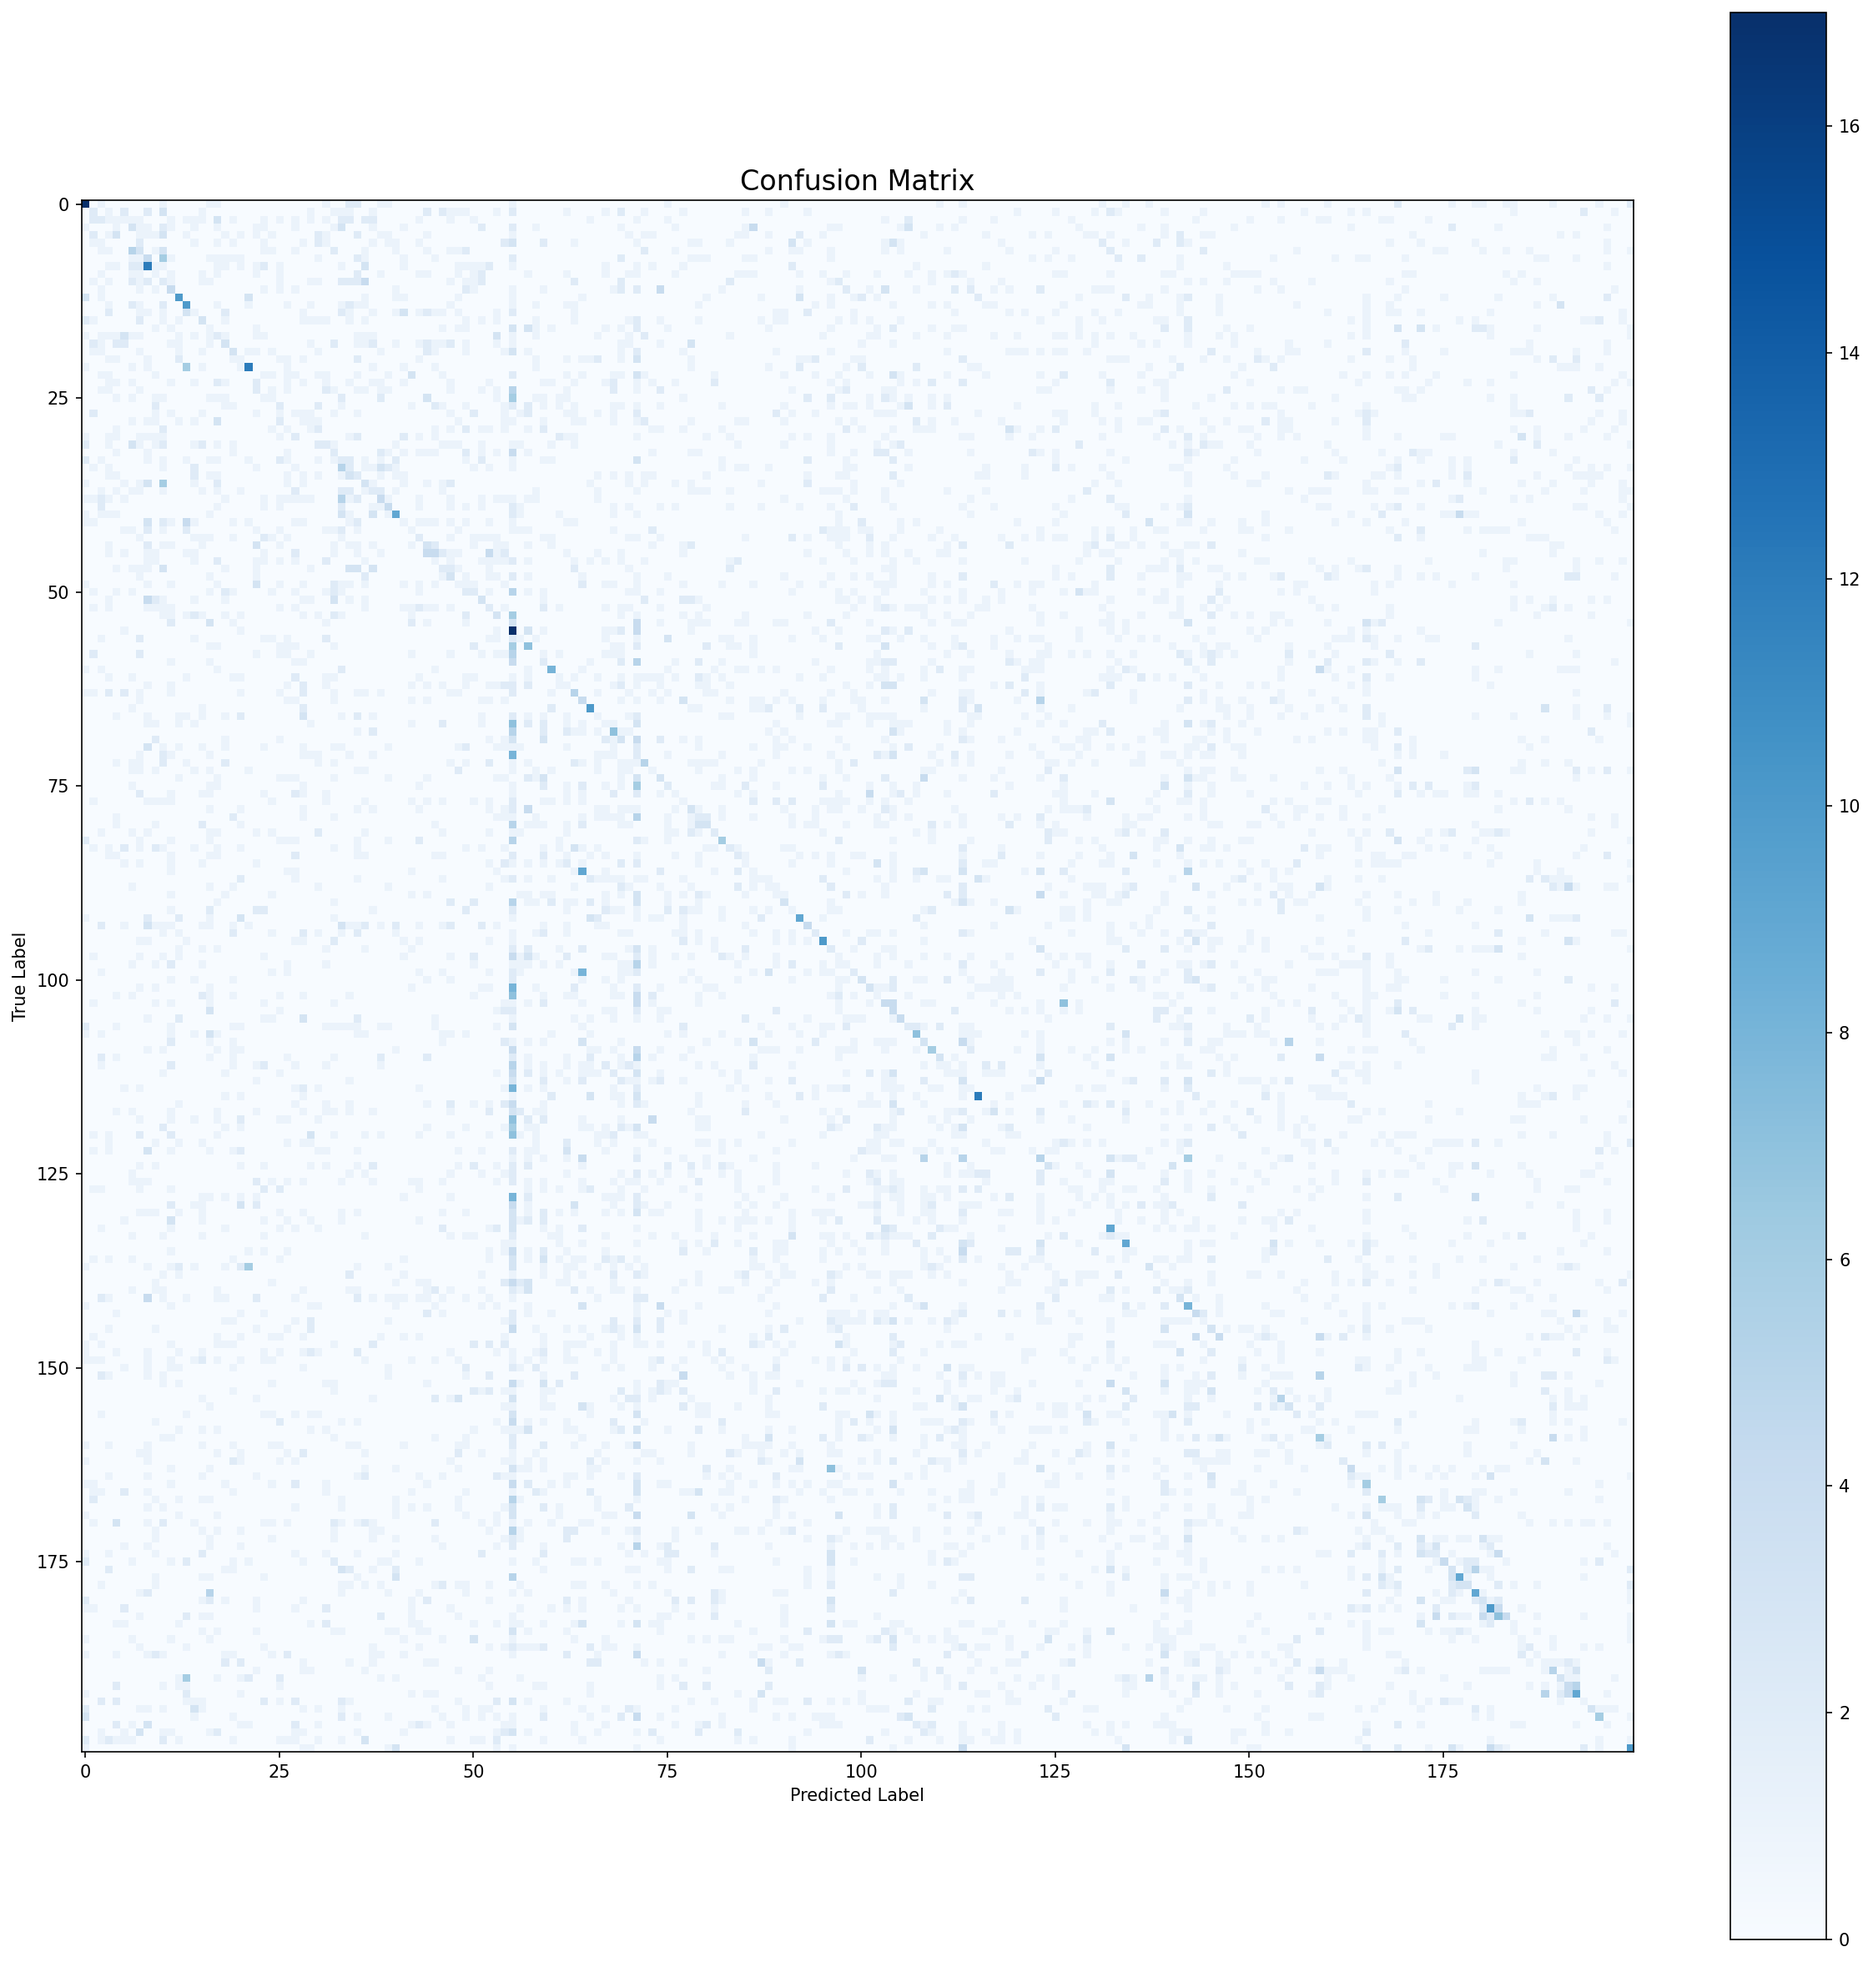
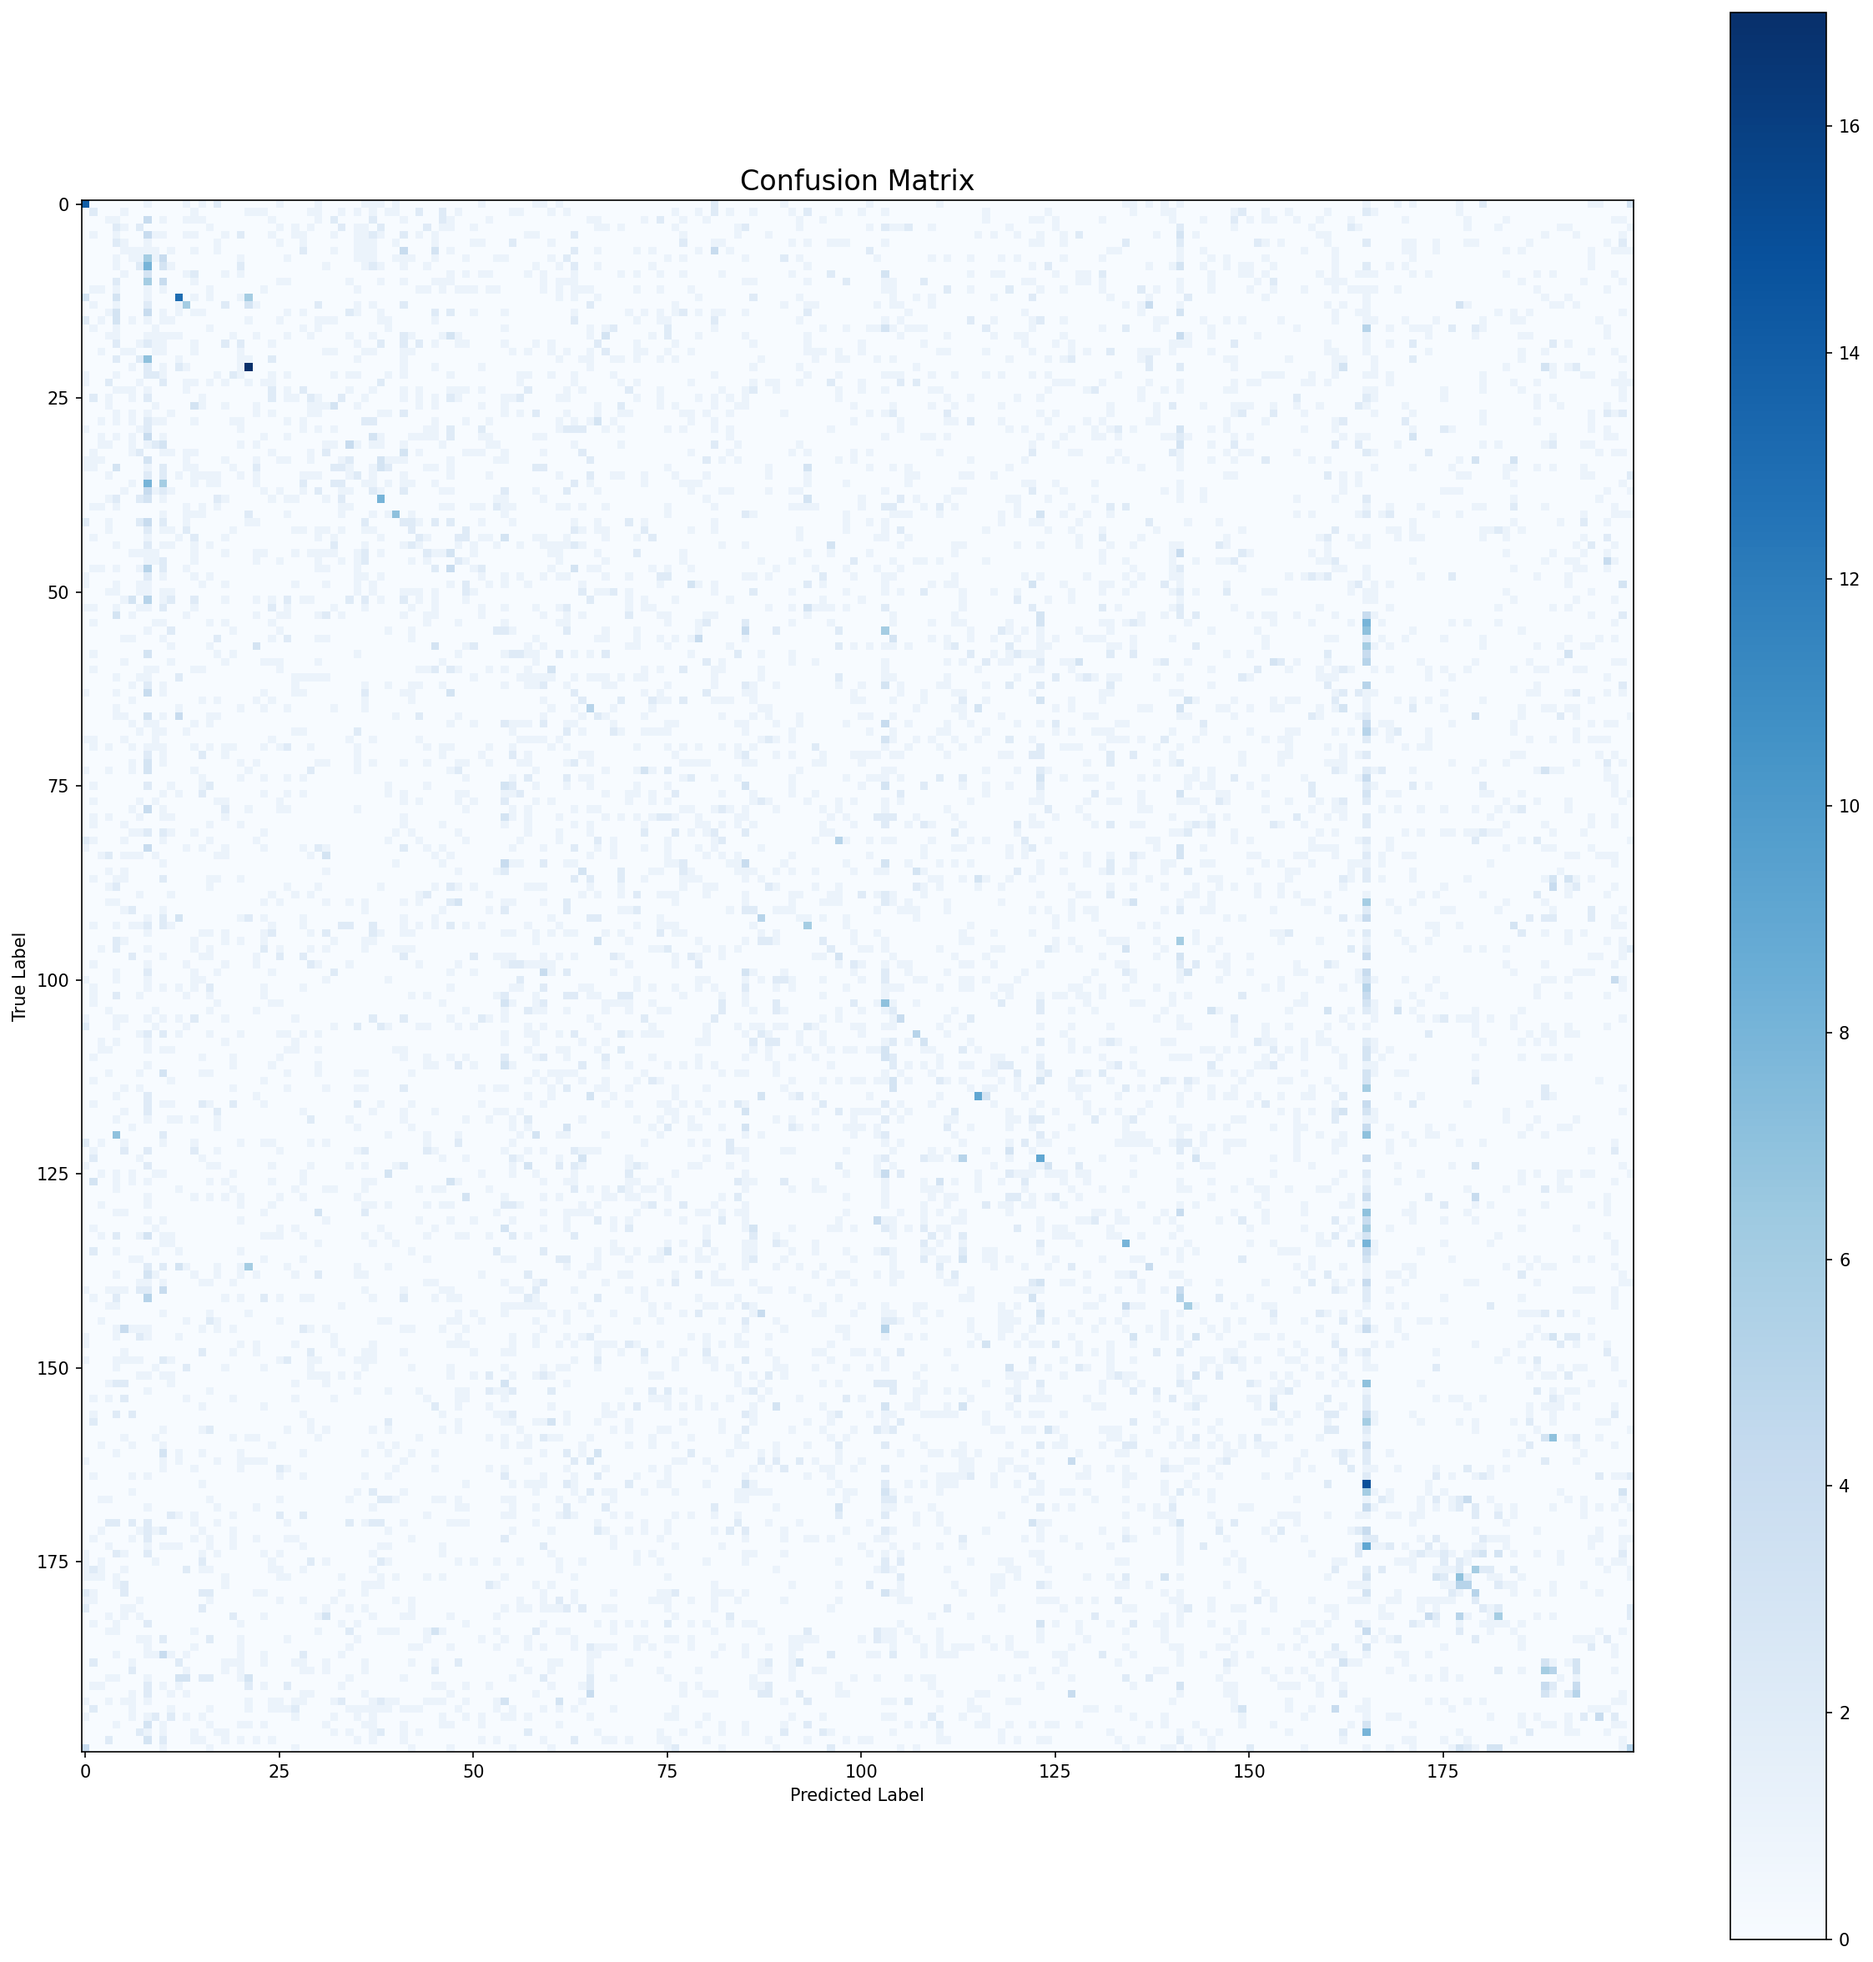
Found best hyperparameters using grid search, trained kernel_svm on them: C=100 and gamma='auto'

diff --git a/models/kernel_svm/model.py b/models/kernel_svm/model.py
@@ -23,16 +23,16 @@ RESULTS_DIR = Path(__file__).parent / "results"
 def build_pipeline(C=10.0, gamma='scale', n_components=500):
     """
     Build and return a sklearn Pipeline:
-    PCA -> StandardScaler -> RBF SVC.
+    StandardScaler -> PCA -> RBF SVC.
 
-    PCA is for dimensionality reduction and finding the most 'important' features for the classification task
     StandardScaler standardizes features by removing the mean and scaling to unit variance
+    PCA is for dimensionality reduction and finding the most 'important' features for the classification task
     SVC is the kernel SVM using the RBF kernel and specified values of C and gamma
     """
 
     return Pipeline([
-        ('pca',    PCA(n_components=n_components, whiten=True, random_state=42)),
         ('scaler', StandardScaler()),
+        ('pca',    PCA(n_components=n_components, whiten=True, random_state=42)),
         ('svc',    SVC(kernel='rbf', C=C, gamma=gamma, decision_function_shape='ovo')),
     ])
 
@@ -47,8 +47,8 @@ def tune(config: DataConfig):
     # Hyperparameters to search through
     param_grid = [
         (C, gamma)
-        for C     in [0.1, 1.0, 10.0, 100.0, 1000.0]
-        for gamma in [0.001, 0.01, 0.1, 'scale', 'auto']
+        for C     in [0.001, 0.01, 0.1, 1.0, 10.0, 100.0]
+        for gamma in [0.001, 0.01, 0.1, 1.0, 'scale', 'auto']
     ]
 
     # Search through possible hyperparameter combinations
@@ -141,11 +141,11 @@ def train_and_eval(best_params: dict, config: DataConfig):
 
 
 if __name__ == "__main__":
-    # Use more data for better performance
-    # Tuning: 100 samples per class for k-fold CV (20,000 total samples)
-    # Eval: 500 samples per class for final training (100,000 total samples - all available data)
-    tune_cfg = DataConfig(max_samples_per_class=100, n_splits=5)
-    eval_cfg = DataConfig(max_samples_per_class=500)
+    # Train on full dataset using best hyperparameters from grid search
+    # Best params found: C=100, gamma='auto'
+    best_params = {'C': 100, 'gamma': 'auto'}
 
-    best_params = tune(tune_cfg)
+    # Train on full dataset (500 samples per class = 100,000 total samples)
+    eval_cfg = DataConfig(max_samples_per_class=50)
+
     train_and_eval(best_params, eval_cfg)

diff --git a/dataset/analyze_pca.py b/dataset/analyze_pca.py
@@ -4,13 +4,15 @@ Run this before tuning to validate your choice of PCA components.
 """
 
 import numpy as np
+import matplotlib
+matplotlib.use('Agg')  # Use non-interactive backend to prevent crashes
 import matplotlib.pyplot as plt
 from sklearn.decomposition import PCA
 from dataset.loader import DataConfig, get_numpy
 
 print("Loading training data...")
-# Use a reasonable sample size for analysis (all 500 per class)
-config = DataConfig(max_samples_per_class=500)
+# Use a reasonable sample size for analysis (reduced to prevent memory issues)
+config = DataConfig(max_samples_per_class=100)  # Reduced from 500
 X_train, y_train, X_val, y_val = get_numpy(config)
 print(f"Loaded {X_train.shape[0]} training samples, {X_train.shape[1]} features")
 
